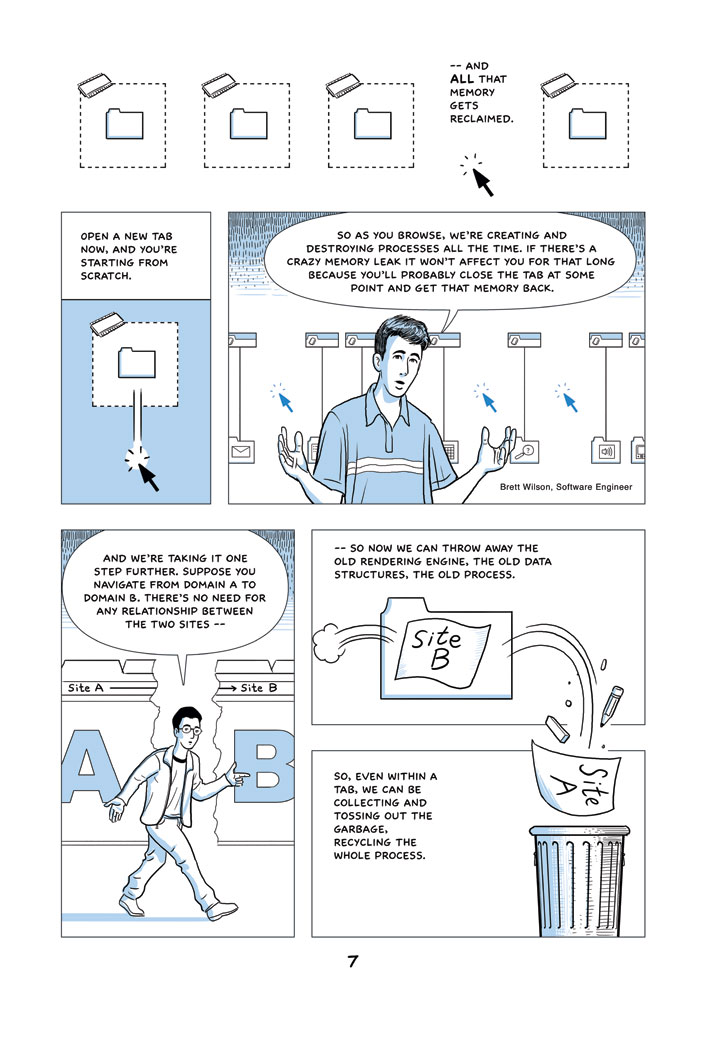
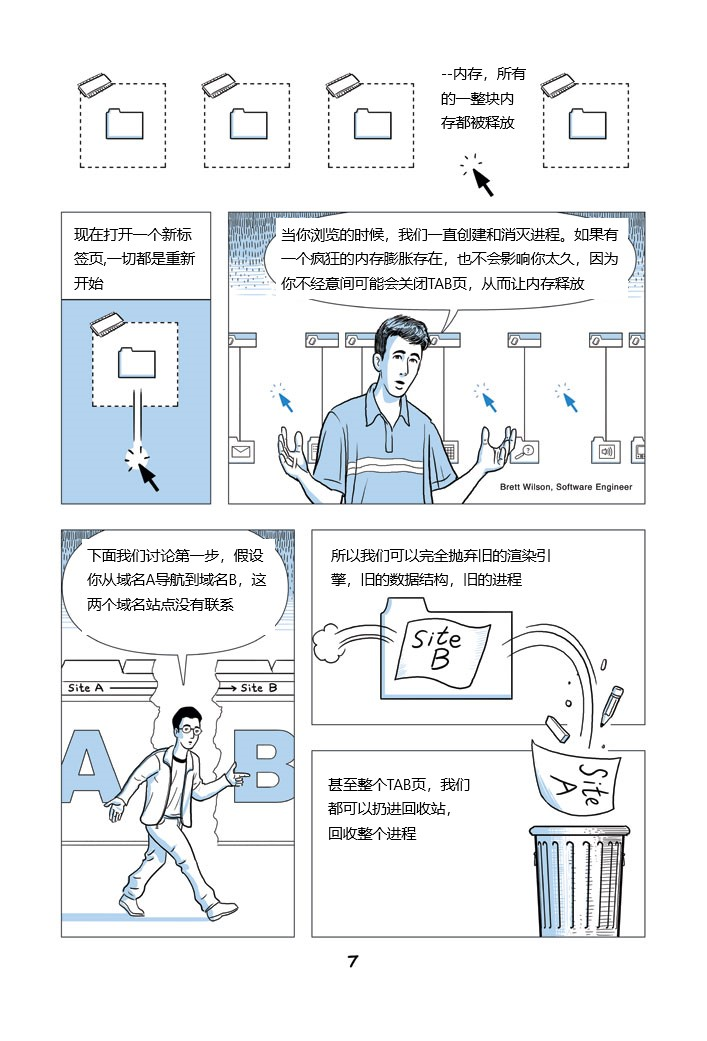
7 jpg

diff --git a/README.md b/README.md
@@ -112,3 +112,35 @@ either we have memory that nothing can refer to again, or there's a piece of de-
 ---
 
 --内存，所有的一整块内存都被释放
+
+现在打开一个新标签页,一切都是重新开始
+
+当你浏览的时候，我们一直创建和消灭进程。如果有一个疯狂的内存膨胀存在，也不会影响你太久，因为你不经意间可能会关闭TAB页，从而让内存释放
+
+下面我们讨论第一步，假设你从域名A导航到域名B，这两个域名站点没有联系
+
+所以我们可以完全抛弃旧的渲染引擎，旧的数据结构，旧的进程
+
+甚至整个TAB页，我们都可以扔进回收站，回收整个进程
+
+---
+
+就像用你的操作系统，你可以看看的google chrome的任务管理器，哪些网站使用最多的内存，下载最多的字节，占用最多的CPU
+
+为什么这个应用正在下载整个因特网？
+
+你也可以看见扩展程序的进程，它们在任务管理器中作为独立的进程而存在
+
+这样当浏览器变慢时，你可以清楚地看见时谁导致的，为什么变慢
+
+于是你就可以干掉它
+
+placing blame where blame belongs
+
+不作恶就不会死
+
+---
+
+google chrome是一种巨大的、复杂的产品,将需要加载数十亿不同的网络页面,所以测试是至关重要的
+
+幸运的是,在google,我们有一个同样巨大的基础设施用于WEB页面爬虫
